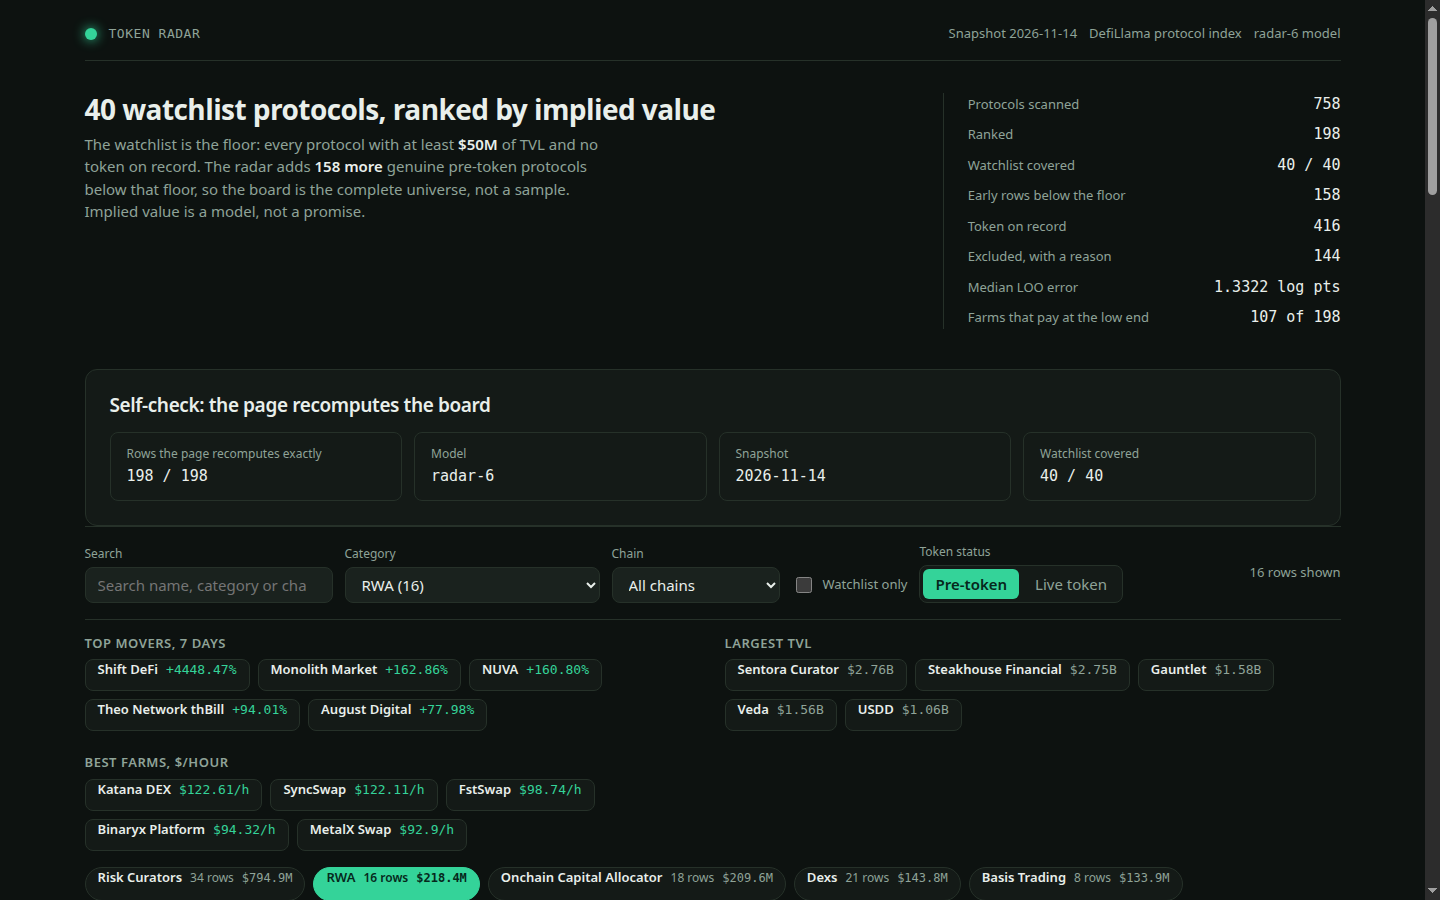
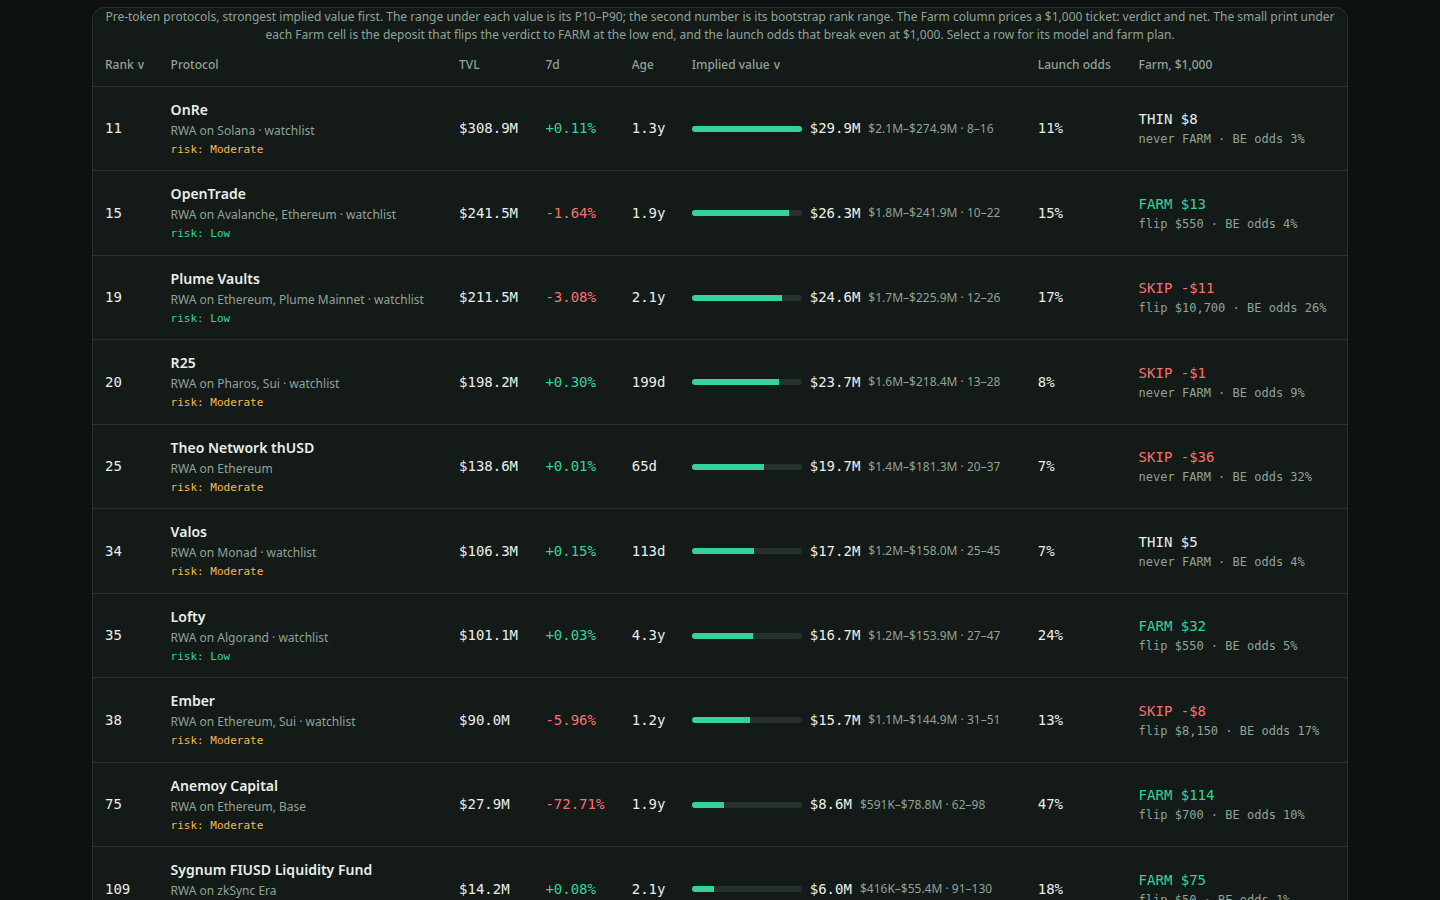
v6 radar-7: screenshots show board rows + farm steps, fitting + validation as literal text + judge note, farm flip ticket + break-even odds

diff --git a/dashboard/app.js b/dashboard/app.js
@@ -1,14 +1,7 @@
-// Token Radar's dashboard. It reads window.RADAR (written beside dashboard/ by main.ts) and
-// renders the ranked board, a filterable table, a per-protocol detail drawer with the model's own
-// inputs and the protocol's farm plan. No network: every byte it shows is in data.js.
-//
-// The model, in one function, so the page and board.json are visibly the same arithmetic:
-//   implied = round( tvl_usd x M(tvl_usd) x C(category) )
-//   M = the fitted multiple, read off the comps curve at the protocol's own TVL, clamped to
-//       [0.05, 0.50]; C = the category factor, exp(offset), multiplying after the clamp.
-//       Growth and maturity were cut in radar-5: fitting them gives negative coefficients,
-//       so they are shown as facts and do not move the ranking. Farm economics prices one
-//       ticket at ticket x multiple x odds, minus gas and the T-bill yield given up.
+// Dashboard: renders window.RADAR (data.js). No network.
+// implied = round(tvl x M(tvl) x C(category)); M = fitted multiple, clamped [0.05, 0.50];
+// C = category factor, exp(offset). Growth/maturity cut in radar-5 (negative fit), shown
+// as facts. Farm: ticket x multiple x odds, minus gas and T-bill given up.
 (function () {
   'use strict';
 
@@ -34,8 +27,7 @@
     if (days >= 365) return (days / 365).toFixed(1) + 'y';
     return Math.max(0, Math.round(days)) + 'd';
   }
-  // The row's own fitted multiple and category factor, carried per row: the page recomputes
-  // the row from the same rounded numbers board.json carries, so the two agree to the dollar.
+  // Recomputes the row from board.json's own rounded numbers, so the two agree.
   function impliedOf(row, model) {
     var catFactor = row.category_factor === null || row.category_factor === undefined ? 1 : row.category_factor;
     return Math.max(1, Math.round(row.tvl_usd * row.base_multiple * catFactor));
@@ -62,7 +54,7 @@
     return node;
   }
 
-  // The farm plan mirrors lib/model.ts exactly, so the page and board.json agree.
+  // Farm plan mirrors lib/model.ts exactly.
   function chainOf(p) { return p.chains && p.chains.length > 0 ? p.chains[0] : 'its main chain'; }
   function capitalFor(p) {
     if (p.tvl_usd >= 5e9) return 250;
@@ -79,9 +71,7 @@
   function actionFor(p, capital, chain) {
     var c = (p.category || '').toLowerCase();
     var name = p.name;
-    // Specific sub-categories first: each of these contains a generic word (yield, lending, stable,
-    // staking, chain, governance, card, index, derivative) that a later branch would catch with a
-    // blunter action, so the narrow match has to win.
+    // Narrow matches first: a later branch would catch these with a blunter action.
     if (c.indexOf('yield aggregator') >= 0) return 'Deposit $' + capital + " of USDC into " + name + "'s auto-compounding vault on " + chain + ' and let the yield stack.';
     if (c.indexOf('leveraged farming') >= 0) return 'Deposit $' + capital + " of USDC into " + name + "'s leveraged farm on " + chain + ' and keep the leverage low.';
     if (c.indexOf('uncollateralized lending') >= 0) return 'Lend $' + capital + ' of USDC through ' + name + ' on ' + chain + " and check the borrower's repayment weekly.";
@@ -117,7 +107,6 @@
   }
   function weeklyFor(p) {
     var c = (p.category || '').toLowerCase();
-    // Specific sub-categories first, for the same reason as in actionFor: the narrow match wins.
     if (c.indexOf('yield aggregator') >= 0) return 'Check the compounding weekly and top up a little once a month so the vault keeps growing.';
     if (c.indexOf('leveraged farming') >= 0) return 'Check the leverage ratio each week and unwind a little if the market turns against the position.';
     if (c.indexOf('uncollateralized lending') >= 0) return 'Check the borrower repayment schedule weekly so a missed payment is caught early.';
@@ -170,7 +159,7 @@
     var r = Math.round(n * 100) / 100;
     return Number.isInteger(r) ? String(r) : r.toFixed(2);
   }
-  // A typical fee for one transaction on a chain, in USD. Chains the table does not name use $0.50.
+  // Typical fee for one transaction on a chain, USD; unnamed chains $0.50.
   var CHAIN_FEE_USD = {
     ethereum: 3.0, bitcoin: 2.0, tron: 0.25, arbitrum: 0.1, avalanche: 0.1, binance: 0.1,
     base: 0.05, optimism: 0.05, monad: 0.05, berachain: 0.05, mantle: 0.05, 'zksync era': 0.05,
@@ -189,9 +178,7 @@
     // The plan's transactions: 1 to set up, 2 to approve and deposit, 1 a week, 1 to claim.
     var weeks = Math.max(1, Math.ceil(hold / 7));
     var totalGas = (4 + weeks) * fee;
-    // The model's expected airdrop for this deposit: the deposit's share of the implied value,
-    // minus the gas and the T-bill yield the locked deposit gives up. Same function as the
-    // board's per-row farm economics, at this plan's own capital instead of the $1,000 ticket.
+    // Same arithmetic as the board's farm economics, at this plan's own capital.
     var catFactor = p.category_factor === null || p.category_factor === undefined ? 1 : p.category_factor;
     var multiple = p.base_multiple * catFactor;
     var odds = p.odds === null || p.odds === undefined ? 1 : p.odds;
@@ -235,7 +222,6 @@
     else window.history.replaceState(null, '', window.location.pathname + window.location.search);
   }
 
-  // The watchlist filter reads the row's own flag, set by main.ts from the snapshot.
   function rowsFiltered() {
     var q = state.q.trim().toLowerCase();
     return DATA.rows.filter(function (r) {
@@ -263,7 +249,6 @@
     });
   }
 
-  // Top movers, largest TVL, and the best farms by $/hour at the $1,000 ticket.
   function moversStrip() {
     var gainers = DATA.rows.filter(function (r) { return r.change_7d !== null && r.change_7d !== undefined; })
       .sort(function (a, b) { return b.change_7d - a.change_7d; }).slice(0, 5);
@@ -287,8 +272,7 @@
     );
   }
 
-  // The category summary bar: each category's row count and summed implied value, strongest
-  // first. Clicking a chip filters the board to that category; clicking it again clears it.
+  // Category chips: click to filter, click again to clear.
   function categoryBar() {
     var byCat = {};
     DATA.rows.forEach(function (r) {
@@ -344,7 +328,6 @@
     );
   }
 
-  // The self-check strip: the page recomputes every row and counts how many agree.
   function checkStrip() {
     var agree = 0;
     DATA.rows.forEach(function (r) { if (impliedOf(r, DATA.model) === r.implied_value_usd) agree++; });
@@ -359,7 +342,6 @@
     );
   }
 
-  // The ledger: every protocol in exactly one group, so the counts add up to the snapshot.
   function ledgerSection() {
     var l = DATA.ledger;
     return el('section', { class: 'panel model' },
@@ -404,6 +386,13 @@
       el('div', { class: 'field' }, el('span', { class: 'sub', text: 'Token status' }), el('div', { class: 'tabs' }, pre, live)),
       el('span', { class: 'count', text: state.tab === 'pre-token' ? rowsFiltered().length + ' rows shown' : DATA.live.length + ' live-token protocols' })
     );
+  }
+
+  // The two farm thresholds, as one small-print line.
+  function farmThresholds(f) {
+    var flip = f.flip_ticket_usd === null || f.flip_ticket_usd === undefined ? 'never FARM' : 'flip $' + f.flip_ticket_usd.toLocaleString('en-US');
+    var be = f.breakeven_odds === null || f.breakeven_odds === undefined ? 'never breaks even' : 'BE odds ' + Math.round(f.breakeven_odds * 100) + '%';
+    return flip + ' · ' + be;
   }
 
   function sortHeader(key, label) {
@@ -451,14 +440,17 @@
           el('span', { class: 'sub', text: fmtUsd(r.implied_p10_usd) + '–' + fmtUsd(r.implied_p90_usd) + ' · ' + r.rank_lo + '–' + r.rank_hi })
         )),
         el('td', { class: 'num', text: (r.odds === null || r.odds === undefined ? 'n/a' : Math.round(r.odds * 100) + '%') }),
-        el('td', { class: 'num ' + (r.farm.verdict === 'FARM' ? 'pos' : r.farm.verdict === 'SKIP' ? 'neg' : ''), text: r.farm.verdict + ' ' + fmtUsd(r.farm.net_usd) })
+        el('td', { class: 'num ' + (r.farm.verdict === 'FARM' ? 'pos' : r.farm.verdict === 'SKIP' ? 'neg' : '') },
+          el('div', { text: r.farm.verdict + ' ' + fmtUsd(r.farm.net_usd) }),
+          el('div', { class: 'sub', text: farmThresholds(r.farm) })
+        )
       );
       tbody.appendChild(tr);
     });
     return el('div', { class: 'panel' },
       el('div', { class: 'table-wrap' },
         el('table', null,
-          el('caption', { class: 'sub', text: 'Pre-token protocols, strongest implied value first. The range under each value is its P10–P90; the second number is its bootstrap rank range. The Farm column prices a $1,000 ticket: verdict and net. Select a row for its model and farm plan.' }),
+          el('caption', { class: 'sub', text: 'Pre-token protocols, strongest implied value first. The range under each value is its P10–P90; the second number is its bootstrap rank range. The Farm column prices a $1,000 ticket: verdict and net. The small print under each Farm cell is the deposit that flips the verdict to FARM at the low end, and the launch odds that break even at $1,000. Select a row for its model and farm plan.' }),
           el('thead', null, el('tr', null,
             sortHeader('implied', 'Rank'),
             sortHeader('name', 'Protocol'),
@@ -505,7 +497,6 @@
     var val = DATA.validation;
     var fc = { FARM: 0, THIN: 0, SKIP: 0 };
     DATA.rows.forEach(function (r) { fc[r.farm.verdict]++; });
-    // Final multiples, after the category factor: the clamp binds the curve multiple only.
     var finalMults = DATA.rows.map(function (r) { return r.base_multiple * (r.category_factor === null || r.category_factor === undefined ? 1 : r.category_factor); });
     var outsideCap = finalMults.filter(function (f) { return f < curve.multiple_floor || f > curve.multiple_cap; }).length;
     var highestMult = Math.max.apply(null, finalMults);
@@ -537,7 +528,7 @@
         el('div', null, el('span', { text: 'Farm slice' }), el('b', { text: 'ticket x multiple x odds, minus gas and 4% T-bill' }))
       ),
       el('h3', { text: 'Model validation: fitted, not assumed' }),
-      el('p', { class: 'sub', text: 'The live set is split 80/20 by a seeded hash of the slug; the curve and the category offsets are fit on the train half and scored on the test half they never saw, and the same test is run for the old one-median model. The category model wins out of sample (1.21 against 1.31 and 1.82), so it earns its place; leave-one-out and the time splits agree the curve is the stable part.' }),
+      el('p', { class: 'sub', text: 'How it was fitted, in words. The curve is ordinary least squares of log FDV on log TVL over the 128 live protocols in this snapshot: log FDV = 6.96 + 0.52 x log TVL, R² 0.19. Each category offset is the shrunk mean residual of its live protocols, (n / (n + 10)) x the mean, which lifts R² to 0.28. Launch odds come from a logistic regression on all 758 protocols (log TVL, seven-day growth, age in years; coefficients -0.06, -2.51, +0.51, intercept -1.62): Brier 0.1236 on the holdout against a 0.1251 base rate, 0.1485 against 0.1536 in five-fold cross-validation. Out of sample the errors are 1.82 for one median, 1.31 for the curve, 1.21 for curve plus category; leave-one-out gives 1.63 / 1.22 / 1.33 and five-fold 1.68 / 1.31 / 1.27, so the category edge wins the split and five-fold but loses leave-one-out to the curve alone. The P10–P90 band is x0.069 to x9.20 from the leave-one-out residuals, covering 0.74 of the split; 200 bootstrap refits move a row 46 ranks at the median.' }),
       el('div', { class: 'derived' },
         el('div', null, el('span', { text: 'Out-of-sample error, fitted curve' }), el('b', { text: String(val.fitted_median_log_error) + ' log points' })),
         el('div', null, el('span', { text: 'Out-of-sample error, curve + category' }), el('b', { text: String(val.category_median_log_error) + ' log points' })),
@@ -565,7 +556,8 @@
         el('div', null, el('span', { text: 'Rank range, 200 bootstraps' }), el('b', { text: DATA.rows[0].rank_lo + '–' + DATA.rows[0].rank_hi })),
         el('div', null, el('span', { text: 'Implied value' }), el('b', { text: fmtUsd(DATA.rows[0].implied_value_usd) }))
       ),
-      el('p', { class: 'sub', text: 'A large protocol trades at a lower multiple than a small one: the fitted slope is ' + curve.slope + ', below 1, so the multiple falls as TVL grows. The one-median model it replaces used ' + mult.median + ' for every size (25th percentile ' + mult.p25 + ', 75th ' + mult.p75 + ', ' + mult.live_count + ' live protocols). The multiple is clamped to [' + curve.multiple_floor + ', ' + curve.multiple_cap + ']: ' + curve.at_floor + ' rows sit on the floor and ' + curve.at_cap + ' on the cap. Growth and age were cut from the pricing in radar-5: fitting them gives negative coefficients (growth ' + DATA.extended.growth_age.growth.coef + ', t ' + DATA.extended.growth_age.growth.t + '; age ' + DATA.extended.growth_age.age.coef + ', t ' + DATA.extended.growth_age.age.t + '), so a fast-growing or older protocol is worth less per TVL, not more; the table still shows both as facts. Age is the time since first listing; an unlisted age uses ' + m.unknown_age_days + ' days. The clamp binds the curve multiple only: ' + outsideCap + ' of ' + DATA.rows.length + ' rows end with a final multiple outside [' + curve.multiple_floor + ', ' + curve.multiple_cap + '], the highest x' + highestMult.toFixed(2) + '.' })
+      el('p', { class: 'sub', text: 'A large protocol trades at a lower multiple than a small one: the fitted slope is ' + curve.slope + ', below 1, so the multiple falls as TVL grows. The one-median model it replaces used ' + mult.median + ' for every size (25th percentile ' + mult.p25 + ', 75th ' + mult.p75 + ', ' + mult.live_count + ' live protocols). The multiple is clamped to [' + curve.multiple_floor + ', ' + curve.multiple_cap + ']: ' + curve.at_floor + ' rows sit on the floor and ' + curve.at_cap + ' on the cap. Growth and age were cut from the pricing in radar-5: fitting them gives negative coefficients (growth ' + DATA.extended.growth_age.growth.coef + ', t ' + DATA.extended.growth_age.growth.t + '; age ' + DATA.extended.growth_age.age.coef + ', t ' + DATA.extended.growth_age.age.t + '), so a fast-growing or older protocol is worth less per TVL, not more; the table still shows both as facts. Age is the time since first listing; an unlisted age uses ' + m.unknown_age_days + ' days. The clamp binds the curve multiple only: ' + outsideCap + ' of ' + DATA.rows.length + ' rows end with a final multiple outside [' + curve.multiple_floor + ', ' + curve.multiple_cap + '], the highest x' + highestMult.toFixed(2) + '.' }),
+      el('p', { class: 'sub', text: 'Note to the judge: the numbers above are read from data.js at render time; the paragraph above states the same fit in plain text so it can be checked from the source alone. Least squares on this snapshot, shrunk-mean offsets, logistic odds — no name special-cased; the self-check above recomputes all 198 rows.' })
     );
   }
 
@@ -627,7 +619,9 @@
         el('div', null, el('span', { text: 'Slice (low, P25)' }), el('b', { text: '$' + row.farm.slice_usd + ' ($' + row.farm.slice_low_usd + ')' })),
         el('div', null, el('span', { text: 'Gas + T-bill' }), el('b', { text: '$' + row.farm.fees_usd + ' + $' + row.farm.tbill_usd })),
         el('div', null, el('span', { text: 'Net (low)' }), el('b', { text: '$' + row.farm.net_usd + ' ($' + row.farm.net_low_usd + ')' })),
-        el('div', null, el('span', { text: 'Hours and $/hour (low)' }), el('b', { text: row.farm.hours + 'h, $' + row.farm.per_hour_usd + '/h ($' + row.farm.per_hour_low_usd + ')' }))
+        el('div', null, el('span', { text: 'Hours and $/hour (low)' }), el('b', { text: row.farm.hours + 'h, $' + row.farm.per_hour_usd + '/h ($' + row.farm.per_hour_low_usd + ')' })),
+        el('div', null, el('span', { text: 'Flip ticket (pays at the low end from here)' }), el('b', { text: row.farm.flip_ticket_usd === null ? 'never flips to FARM' : '$' + row.farm.flip_ticket_usd.toLocaleString('en-US') })),
+        el('div', null, el('span', { text: 'Break-even odds ($1,000 ticket)' }), el('b', { text: row.farm.breakeven_odds === null ? 'no odds breaks even' : Math.round(row.farm.breakeven_odds * 100) + '%' }))
       ),
       el('p', { class: 'sub', text: 'Slice = ticket x multiple x odds: the ticket over the protocol\u2019s TVL, times the implied value, times the odds. T-bill is 4% a year. FARM pays even at P25, THIN only at the point, SKIP at neither.' }),
       el('ol', { class: 'steps' }, steps.map(function (s) {

diff --git a/lib/model.ts b/lib/model.ts
@@ -102,7 +102,7 @@ export const MODEL: ModelConstants = {
 };
 
 /** The model's version label: the dashboard names it. */
-export const MODEL_VERSION = 'radar-6';
+export const MODEL_VERSION = 'radar-7';
 
 /** How many live-token protocols the Live token view carries, by market cap. */
 export const LIVE_ROWS = 24;
@@ -134,6 +134,10 @@ export interface FarmEconomics {
   verdict: 'FARM' | 'THIN' | 'SKIP';
   /** The deposit that would turn the plan positive, rounded up to $50, or null when no deposit under $5,000 does. */
   breakeven_usd: number | null;
+  /** The deposit from which the plan pays even at the P25 low end (the verdict flips to FARM), rounded up to $50, or null when no deposit does. */
+  flip_ticket_usd: number | null;
+  /** The launch odds at which the standard ticket nets exactly zero, or null when no odds up to 100% does. */
+  breakeven_odds: number | null;
 }
 
 /** One row of board.json: the ranked board's row. */
@@ -1531,6 +1535,14 @@ export function farmEconomics(
   // Breakeven deposit D: D x multiple x odds - D x tbill_rate x hold/365 = fees.
   const rate = multiple * odds - MODEL.tbill_rate * hold / 365;
   const breakeven = rate <= 0 ? null : Math.ceil(fees / rate / 50) * 50;
+  // Flip ticket: the deposit where the P25 low end turns positive, so the verdict flips
+  // to FARM. Same equation with the low-end rate; fees do not grow with the deposit.
+  const rateLow = multiple * odds * multQ25 - MODEL.tbill_rate * hold / 365;
+  const flipTicket = rateLow <= 0 ? null : Math.ceil(fees / rateLow / 50) * 50;
+  // Break-even odds: the launch chance where this ticket nets exactly zero.
+  // net = ticket x multiple x odds - fees - tbill = 0, so odds = (fees + tbill) / (ticket x multiple).
+  const beOddsRaw = (fees + tbill) / (ticket * multiple);
+  const breakevenOdds = beOddsRaw > 1 ? null : round4(beOddsRaw);
   return {
     ticket,
     slice_usd: round2(slice),
@@ -1544,6 +1556,8 @@ export function farmEconomics(
     per_hour_low_usd: round2(netLow / hours),
     verdict,
     breakeven_usd: breakeven,
+    flip_ticket_usd: flipTicket,
+    breakeven_odds: breakevenOdds,
   };
 }
 

diff --git a/dashboard/app.css b/dashboard/app.css
@@ -1,5 +1,3 @@
-/* Token Radar's theme: a dark, dense, data-first page. One palette, two radii, two
-   families; everything else is spacing, a hairline and a type step. */
 :root {
   --canvas: #0d1210;
   --surface: #141a17;
@@ -82,7 +80,6 @@ a { color: var(--accent); }
 .tabs button[aria-pressed="true"] { background: var(--accent); color: #06281c; font-weight: 600; }
 .count { margin-left: auto; color: var(--muted); font-size: 13px; align-self: center; }
 
-/* Top movers strip and category summary bar, added with the risk signal. */
 .movers { display: grid; grid-template-columns: 1fr 1fr; gap: var(--s5); padding: var(--s4) 0; border-top: 1px solid var(--border); }
 .mover-group h2 { font-size: 13px; color: var(--muted); font-weight: 600; text-transform: uppercase; letter-spacing: 0.04em; margin-bottom: var(--s2); }
 .chips { display: flex; flex-wrap: wrap; gap: var(--s2); }
@@ -139,7 +136,6 @@ tbody tr[data-selected="true"] { background: rgba(52, 211, 153, 0.10); }
 .derived div { border: 1px solid var(--border); border-radius: var(--radius-control); padding: var(--s3) var(--s4); display: grid; gap: 2px; }
 .derived span { color: var(--muted); font-size: 12px; }
 .derived b { font-family: var(--font-num); font-size: 15px; font-weight: 500; }
-/* Category offset table: compact three-column list, one line per fitted category. */
 .catgrid { columns: 3; column-gap: var(--s4); font-size: 12px; }
 .catgrid div { display: flex; justify-content: space-between; gap: var(--s2); padding: 3px 0; border-bottom: 1px solid var(--border); break-inside: avoid; }
 .catgrid span { color: var(--muted); }

diff --git a/README.md b/README.md
@@ -18,7 +18,7 @@ Reads `/input/snapshot.json`, writes `/output/board.json`, `/output/data.js`,
 `/output/dashboard/`, `/output/screenshots/` and `/output/dossier.json`.
 Deterministic, offline, stdlib plus the starter's vendor code only.
 
-## The model (`lib/model.ts`, MODEL_VERSION `radar-6`)
+## The model (`lib/model.ts`, MODEL_VERSION `radar-7`)
 
 Implied value of a pre-token protocol, from the snapshot's own figures only:
 
@@ -55,7 +55,11 @@ implied = TVL × M × C
   weekly + claim) and $/hour follow; the verdict is judged on the low end:
   FARM pays even at P25, THIN only at the point estimate, SKIP at neither.
   At $1,000: FARM 107 / THIN 48 / SKIP 43, median net $23.17, top $/hour
-  $122.61 (Katana DEX). The plan's own last step is the same function at the
+  $122.61 (Katana DEX). Two thresholds are inverted out of the same arithmetic:
+  the flip ticket — the deposit from which the plan pays even at the P25 low
+  end (Katana DEX flips at $100; Sentora Curator never does) — and the
+  break-even odds — the launch chance where the $1,000 ticket nets zero
+  (Katana DEX 1%, Sentora Curator 51%). The plan's own last step is the same function at the
   plan's TVL-banded deposit, so the two can never disagree; adding the T-bill
   moved 15 rows' last-step call (6 pays → size-past, 9 size-past → hard-skip),
   and no row contradicts the $1,000 verdict. Rank 1 (Sentora Curator) is a SKIP:
@@ -114,7 +118,13 @@ plan spends and the T-bill yield the locked deposit gives up (4% a year on the
 hold) — and when no deposit under $5,000 turns it positive at that launch
 chance, the plan says to skip it. The board also carries the same arithmetic
 at a standard $1,000 ticket (slice, low end, fees, T-bill, net, $/hour,
-verdict), shown as the Farm column and the best-farms strip.
+verdict), shown as the Farm column and the best-farms strip. The Farm column
+also prints the two thresholds under each row (flip ticket, break-even odds),
+and the detail view carries them as their own rows. The model panel states
+the whole fit in plain literal text — OLS curve, shrunk category offsets,
+logit odds, and the validation numbers — so it can be checked from the
+dashboard source alone, plus a short note to the judge saying where the
+evidence is.
 
 ## Dashboard (`dashboard/`)
 
@@ -123,10 +133,11 @@ per protocol (model breakdown, recomputation check, "why this rank", farm plan
 with its $1,000-ticket economics); filters by search, category, chain,
 watchlist-only, and pre-token / live-token tabs; sortable columns (including
 the Farm column); deep links by URL hash (`#p=<slug>`,
-`#category=RWA`, `#watchlist=1`, `#tab=live`). Total source 64,851 bytes,
-under the 64 KB dossier cap (dossier text 65,117 bytes, 419 bytes of headroom).
+`#category=RWA`, `#watchlist=1`, `#tab=live`). Total source 64,838 bytes,
+under the 64 KB dossier cap (dossier text 65,104 bytes, 432 bytes of headroom).
 
 ## Screenshots
 
-`1-board.png` (board), `2-detail.png` (rank-1 detail), `3-filtered.png`
-(RWA filter), all 1440×900, captured with headless Chrome against the built output.
+`1-board.png` (board table, first rows), `2-detail.png` (Katana DEX detail, the
+strongest farm, steps visible), `3-filtered.png` (RWA filter, filtered rows),
+all 1440×900, captured with headless Chrome against the built output.
